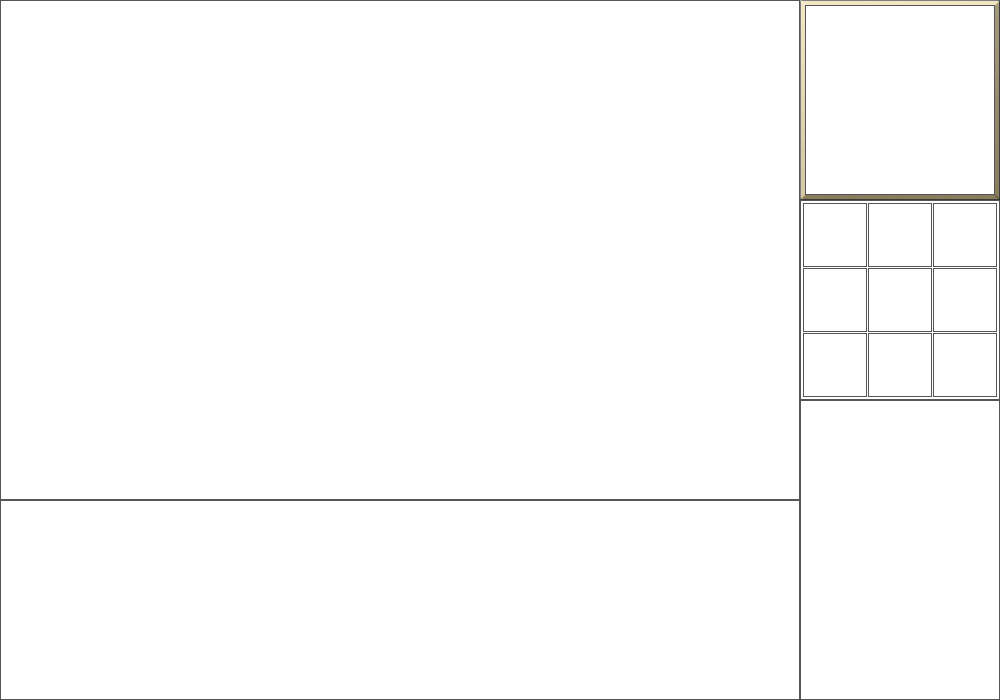
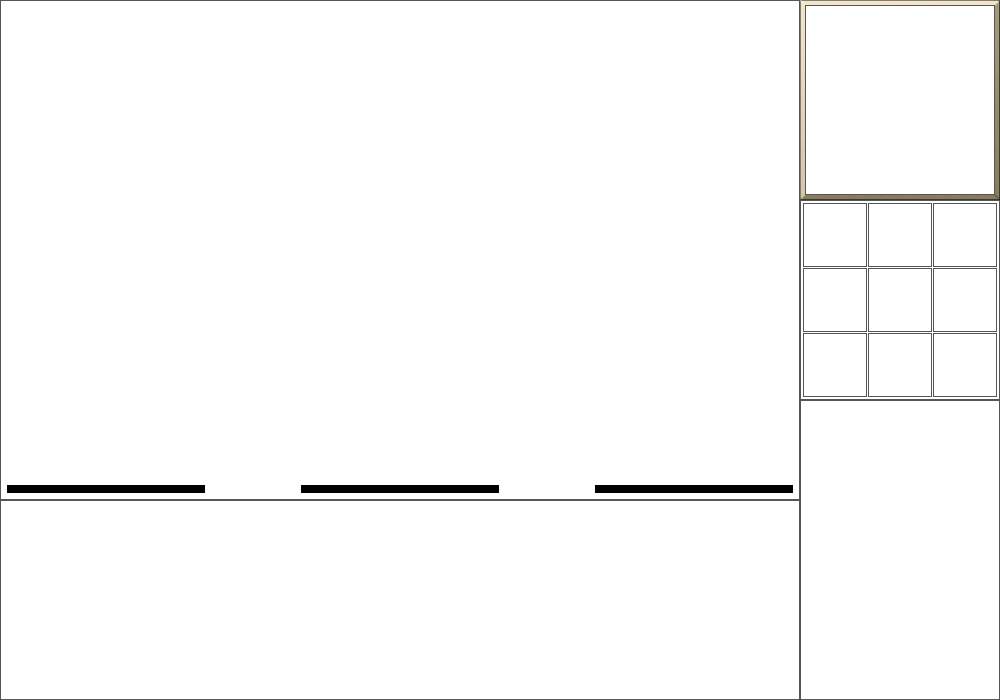
Adicionado efeito minimapa redondo

Changed region(s): [[0.589, 0.69, 0.806, 0.72], [0.279, 0.69, 0.496, 0.72], [0.0, 0.69, 0.217, 0.72]]

diff --git a/RPG/RPG/src/MapManager.cs b/RPG/RPG/src/MapManager.cs
@@ -27,6 +27,7 @@ namespace RPG.src
         private Rectangle miniMapDestinationRectangle;
         private Rectangle sourceRectangle;
         private Vector2 miniMapAuxPosition;
+        private RenderTarget2D miniMapDrawRenderTarget2D;
 
         public MapManager()
         {
@@ -41,10 +42,11 @@ namespace RPG.src
              * 3    4   5
              * 6    7   8
              */
-            miniMapRenderTarget2D = new RenderTarget2D(Game1.graphicsDeviceManager.GraphicsDevice, 320, 320);
             miniMapAuxRetangle = new Rectangle(0, 0, 1, 1);
-            miniMapDestinationRectangle = new Rectangle(804, 4, 192, 192);
+            miniMapDestinationRectangle = new Rectangle(800, 0, 192, 192);
             sourceRectangle = new Rectangle(0, 0, 192, 192);
+
+            miniMapDrawRenderTarget2D = new RenderTarget2D(Game1.graphicsDeviceManager.GraphicsDevice, 200, 200);
         }
 
         internal void update()
@@ -73,6 +75,37 @@ namespace RPG.src
                 loadMap();
                 updateMiniMapTexture2d();
             }
+
+
+            Game1.graphicsDeviceManager.GraphicsDevice.SetRenderTarget(miniMapDrawRenderTarget2D);
+            Game1.graphicsDeviceManager.GraphicsDevice.Clear(Color.Transparent);
+
+            Game1.spriteBatch.Begin(SpriteSortMode.Deferred, new BlendState
+            {
+
+                ColorSourceBlend = Blend.One,
+                ColorDestinationBlend = Blend.SourceAlpha,
+
+                AlphaSourceBlend = Blend.One,
+                AlphaDestinationBlend = Blend.SourceAlpha
+
+            });
+
+            if (miniMapTexture2d != null)
+            {
+                sourceRectangle.X = (int)(((Game1.mission.player.position.X - Config.chunkSize * playerRegion.X) / Config.tileSize) + (Config.tilesPerChunk * 0.5f));
+                sourceRectangle.Y = (int)((-(Game1.mission.player.position.Y - Config.chunkSize * playerRegion.Y) / Config.tileSize) + (Config.tilesPerChunk * 1.5f));
+                Game1.spriteBatch.Draw(miniMapTexture2d, new Rectangle(4, 4, 192, 192), sourceRectangle, Color.White);
+            }
+
+            //Game1.mission.textures2D["miniMapMask"].drawOnScreen();
+
+
+            Game1.spriteBatch.End();
+
+            Game1.graphicsDeviceManager.GraphicsDevice.SetRenderTarget(null);
+            Game1.graphicsDeviceManager.GraphicsDevice.ScissorRectangle = Game1.display.centerViewport.Bounds;
+            Game1.graphicsDeviceManager.GraphicsDevice.Viewport = Game1.display.centerViewport;
         }
 
         private void loadMap()
@@ -269,6 +302,7 @@ namespace RPG.src
             Game1.graphicsDeviceManager.GraphicsDevice.SetRenderTarget(miniMapRenderTarget2D);
             Game1.spriteBatch.Begin();
 
+            //Deslocando imagem
             if (miniMapTexture2d != null)
             {
                 miniMapAuxPosition.X = (loadedRegion.X - playerRegion.X) * Config.tilesPerChunk;
@@ -294,20 +328,26 @@ namespace RPG.src
             miniMapTexture2d = (Texture2D)miniMapRenderTarget2D;
         }
 
-        internal void drawMiniMap()
+        internal void drawMiniMapOld()
         {
-            sourceRectangle.X = (int)(((Game1.mission.player.position.X - Config.chunkSize * playerRegion.X) / Config.tileSize) + (Config.tilesPerChunk * 0.5f));
-            sourceRectangle.Y = (int)((-(Game1.mission.player.position.Y - Config.chunkSize * playerRegion.Y) / Config.tileSize) + (Config.tilesPerChunk * 1.5f));
-            Game1.spriteBatch.Draw(miniMapTexture2d, miniMapDestinationRectangle, sourceRectangle, Color.White);
-
             //sourceRectangle.X = (int)((Game1.mission.player.position.X - Config.chunkSize) / Config.tileSize);
             //sourceRectangle.Y = (int)(Game1.mission.textures2D["miniMapPablo.fw"].texture.Height - ((Game1.mission.player.position.Y - Config.chunkSize) / Config.tileSize));
             //Game1.spriteBatch.Draw( Game1.mission.textures2D["miniMapPablo.fw"].texture, miniMapDestinationRectangle, sourceRectangle, Color.White);
 
+            sourceRectangle.X = (int)(((Game1.mission.player.position.X - Config.chunkSize * playerRegion.X) / Config.tileSize) + (Config.tilesPerChunk * 0.5f));
+            sourceRectangle.Y = (int)((-(Game1.mission.player.position.Y - Config.chunkSize * playerRegion.Y) / Config.tileSize) + (Config.tilesPerChunk * 1.5f));
+
+            Game1.spriteBatch.Draw(miniMapTexture2d, miniMapDestinationRectangle, sourceRectangle, Color.White);
 #if DEBUG
             Game1.spriteBatch.DrawString(Game1.verdana12, "" + playerRegion, new Vector2(miniMapDestinationRectangle.X + 10, miniMapDestinationRectangle.Y + 10), Color.White);
 #endif
-            
+
+        }
+
+        internal void drawMiniMap()
+        {
+            //miniMapDrawRenderTarget2D
+            Game1.spriteBatch.Draw((Texture2D)miniMapDrawRenderTarget2D, new Vector2(800, 0), Color.White);
         }
     }
 }

diff --git a/RPG/RPG/src/Mission.cs b/RPG/RPG/src/Mission.cs
@@ -45,7 +45,8 @@ namespace RPG.src
 
             mapManager = new MapManager();
 
-            tilesetslocations.Add(Game1.memoryCard.playerClass + "Player", new Vector2(32));
+            tilesetslocations.Add(Game1.memoryCard.playerClass + "Player", new Vector2(64));
+            tilesetslocations.Add(Game1.memoryCard.playerClass + "PlayerIdle", new Vector2(64));
 
             tilesetslocations.Add("golem", new Vector2(64));
 
@@ -53,6 +54,8 @@ namespace RPG.src
             textures2Dlocations.Add("missionHUD");
             textures2Dlocations.Add("dot");
             textures2Dlocations.Add("water");
+
+            textures2Dlocations.Add("miniMapMask");
 
             enemyFoeList = new List<EnemyFoe>();
         }
@@ -110,6 +113,7 @@ namespace RPG.src
                                 player.getPosition();
                                 translateMatrix(player.position.X, player.position.Y);
                                 mapManager.reLoadMap();
+
                                 textures2D["dot"].setPosition(900 - 4, 100 - 4);
                             }
                         }
@@ -138,26 +142,27 @@ namespace RPG.src
                 case states.mission:
                     {
                         Game1.spriteBatch.End();
-
                         Game1.spriteBatch.Begin(SpriteSortMode.Deferred, null, SamplerState.LinearWrap, null, Game1.display.scissorTestRasterizerState, null, Game1.display.camera);
-                        Game1.spriteBatch.Draw(textures2D["water"].texture, new Rectangle(Game1.display.displayWidthOver2, Game1.display.displayHeightOver2, Game1.display.displayWidth, Game1.display.displayHeight), new Rectangle((int)player.position.X + (int)waterPosition.X, (int)-player.position.Y + (int)waterPosition.Y, textures2D["water"].width, textures2D["water"].height), Color.White, 0, new Vector2(textures2D["water"].width / 2f, textures2D["water"].height / 2f), SpriteEffects.None, 0f);
+                        {
+                            Game1.spriteBatch.Draw(textures2D["water"].texture, new Rectangle(Game1.display.displayWidthOver2, Game1.display.displayHeightOver2, Game1.display.displayWidth, Game1.display.displayHeight), new Rectangle((int)player.position.X + (int)waterPosition.X, (int)-player.position.Y + (int)waterPosition.Y, textures2D["water"].width, textures2D["water"].height), Color.White, 0, new Vector2(textures2D["water"].width / 2f, textures2D["water"].height / 2f), SpriteEffects.None, 0f);
+                        }
                         Game1.spriteBatch.End();
 
                         Game1.spriteBatch.Begin(SpriteSortMode.Deferred, null, null, null, Game1.display.scissorTestRasterizerState, null, Game1.display.camera);
-                        mapManager.drawMapFloor();
-
-                        foreach (EnemyFoe enemyFoe in enemyFoeList)
                         {
-                            tilesets[enemyFoe.typeToString + enemyFoe.state].drawTile(enemyFoe.position, enemyFoe.texCoord.X, enemyFoe.texCoord.Y);
+                            mapManager.drawMapFloor();
+
+                            foreach (EnemyFoe enemyFoe in enemyFoeList)
+                            {
+                                tilesets[enemyFoe.typeToString + enemyFoe.state].drawTile(enemyFoe.position, enemyFoe.texCoord.X, enemyFoe.texCoord.Y);
+                            }
+
+                            tilesets[Game1.memoryCard.playerClass + "Player" + player.status].drawTile((int)player.position.X, (int)player.position.Y, player.texCoord.X, player.texCoord.Y);
+                            mapManager.drawMapRoof();
+                            textures2D["missionHUD"].drawOnScreen();
+                            mapManager.drawMiniMap();
+                            textures2D["dot"].drawOnScreen();
                         }
-
-                        tilesets[Game1.memoryCard.playerClass + "Player"].setRotation(player.rotation);
-
-                        tilesets[Game1.memoryCard.playerClass + "Player"].drawTile((int)player.position.X, (int)player.position.Y, player.texCoord.X, player.texCoord.Y);
-                        mapManager.drawMapRoof();
-                        textures2D["missionHUD"].drawOnScreen();
-                        mapManager.drawMiniMap();
-                        textures2D["dot"].drawOnScreen();
                     }
                     break;
                 case states.pause:

diff --git a/RPG/RPG/src/Player.cs b/RPG/RPG/src/Player.cs
@@ -21,16 +21,19 @@ namespace RPG.src
         private float auxRotation;
         private int directionInputCount;
         private float maxSpeed;
+        public string status;
+        private bool startWalking;
+        private int startWalkingMiliseconds;
 
         internal Player(int x, int y, int width, int height)
             : base(x, y, width, height, BodyType.Dynamic)
         {
             body.FixedRotation = true;
             body.health = 100;
-            body.LinearDamping = 10f;
+            body.LinearDamping = 20f;
             body.OnCollision += playerBody_OnCollision;
 
-            maxSpeed = 5f;
+            maxSpeed = 3f;
         }
 
         private bool playerBody_OnCollision(Fixture fixtureA, Fixture fixtureB, Contact contact)
@@ -41,6 +44,7 @@ namespace RPG.src
 
         internal void update()
         {
+            status = "";
             //if (Game1.input.mouse0)
             //{
             //    auxRotation = (float)-Math.Atan2(position.X - Game1.input.mouseX, -(position.Y - Game1.input.mouseY));
@@ -118,6 +122,12 @@ namespace RPG.src
             //texCoord.Y = 3; w +y
             if (directionInputCount > 0 || needToMove)
             {
+                if (!startWalking)
+                {
+                    startWalking = true;
+                    startWalkingMiliseconds = Game1.frameCount;
+                }
+
                 if (Math.Abs(body.LinearVelocity.X) > Math.Abs(body.LinearVelocity.Y))
                 {
                     texCoord.Y = (body.LinearVelocity.X < 0) ? 1 : 2;
@@ -127,11 +137,14 @@ namespace RPG.src
                     texCoord.Y = (body.LinearVelocity.Y < 0) ? 0 : 3;
                 }
 
-                texCoord.X = (Game1.frameCount / 10) % 3;
+                texCoord.X = ((Game1.frameCount - startWalkingMiliseconds) / 5) % 8;
             }
             else
             {
                 texCoord.X = 1;
+                status = "Idle";
+                startWalking = false;
+                texCoord.X = (Game1.frameCount / 6) % 7;
             }
         }
     }

diff --git a/RPG/RPG/data/Story.cs b/RPG/RPG/data/Story.cs
@@ -15,7 +15,13 @@ namespace RPG.data
 
         void load(){
             story.Clear();
-            story.Add("intro0" , "");
+            story.Add("intro0",
+                "Lorem ipsum dolor sit amet, consectetur adipiscing elit. Morbi eu mattis orci. Suspendisse venenatis mi nisi,"+
+                "ut tincidunt dui dictum in. Fusce posuere fringilla vestibulum. Nunc sit amet tincidunt felis. Ut ac arcu sit" +
+                "amet eros interdum mattis non non sapien. Integer mollis nec dui non efficitur. Cras at dui a ex pulvinar" +
+                "vestibulum. Aliquam faucibus, augue consequat tempus scelerisque, tortor diam rutrum augue, id dignissim" +
+                "ligula eros in tortor. Nam at lacinia libero. Nunc at eleifend nulla, ut suscipit metus. Integer rutrum," +
+                "nunc nec viverra sodales, arcu lorem fermentum nunc, ut aliquet lacus est eget neque.");
         }
     }
 }

diff --git a/RPG/RPG/src/Config.cs b/RPG/RPG/src/Config.cs
@@ -23,5 +23,6 @@ namespace RPG.src
 
         //Foes
         public int spawningInterval = 60 * 5;
+        public static int idleInterval = 6;
     }
 }
